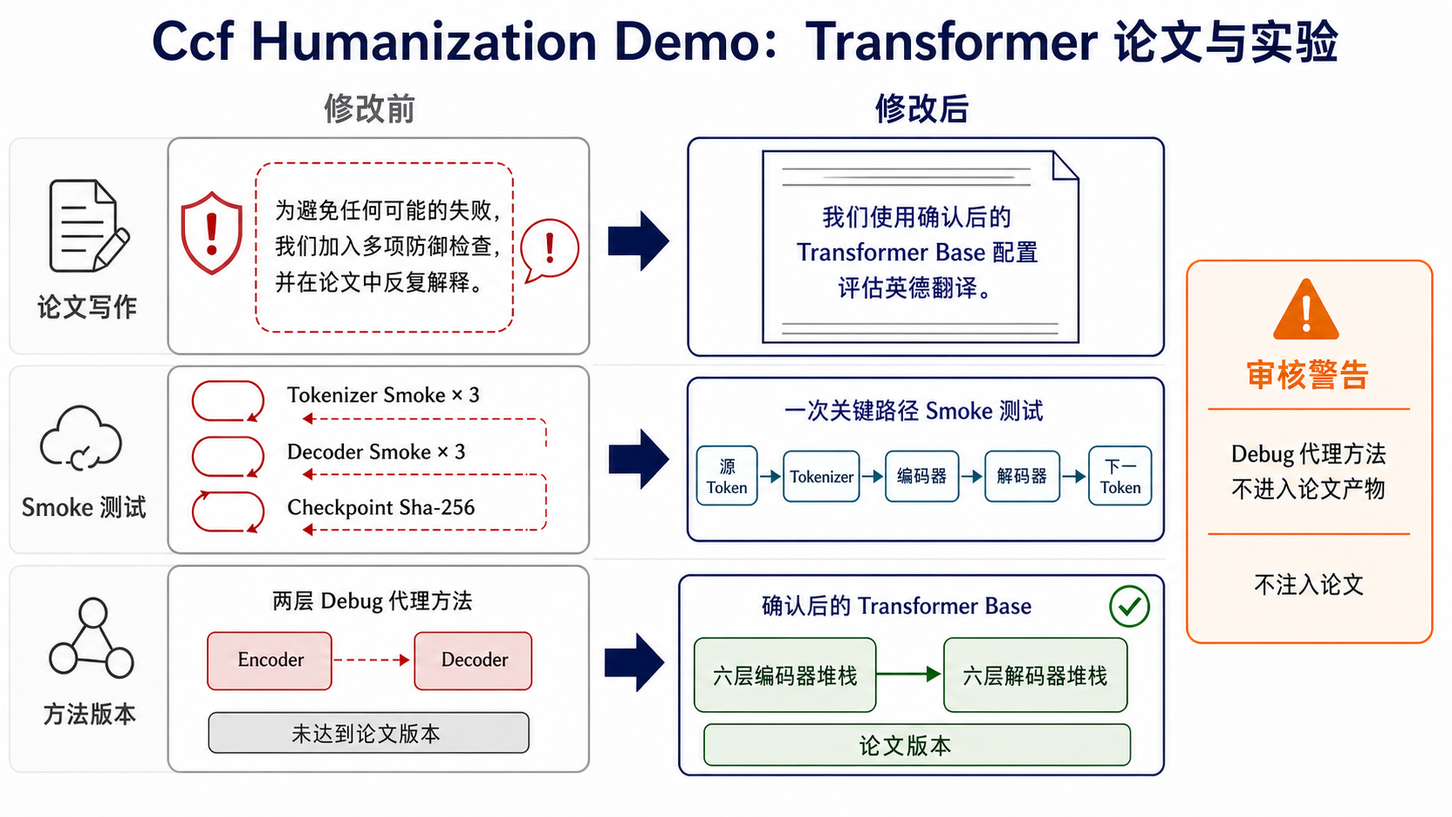
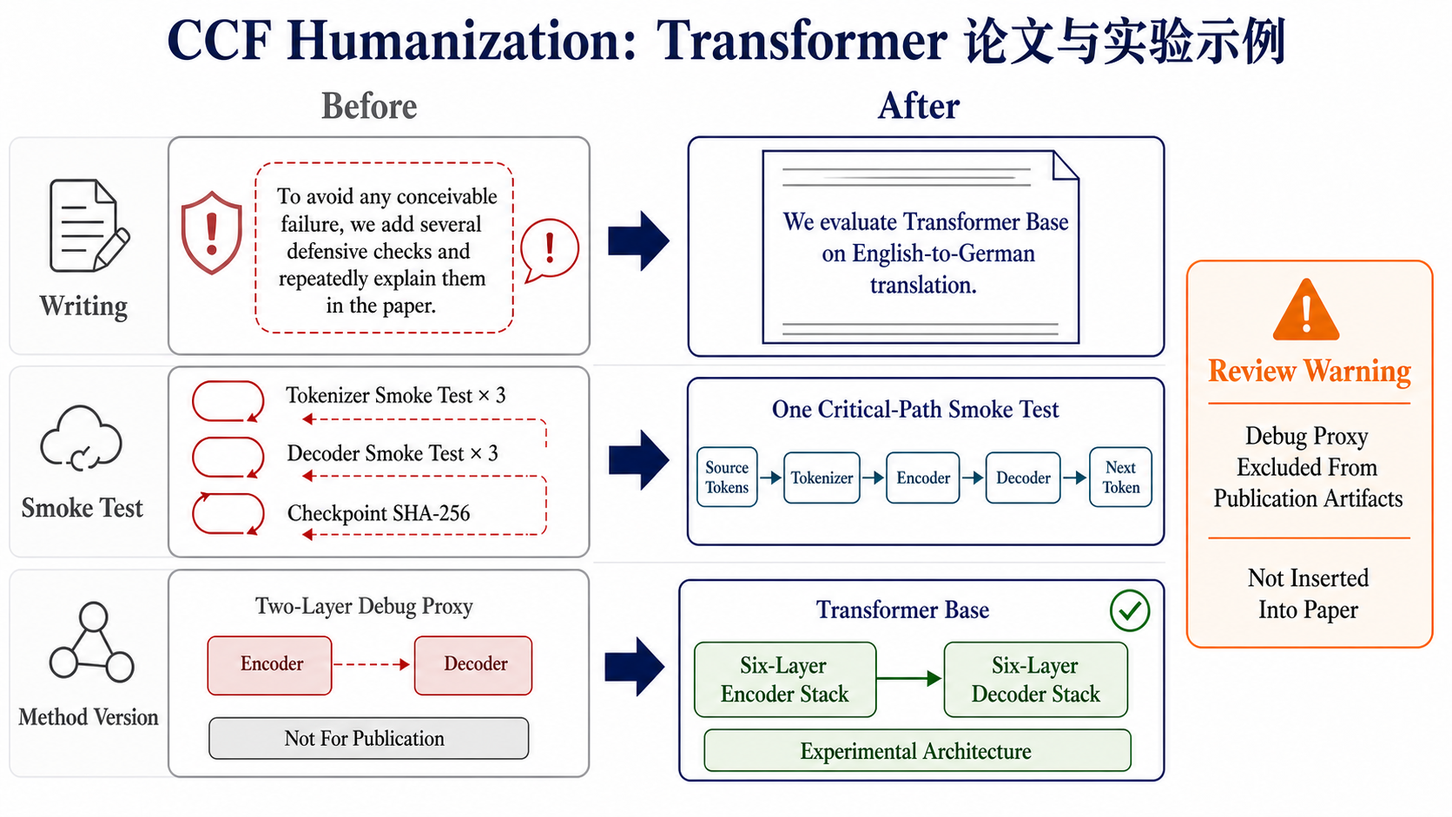
fix: refine humanization prose and visual casing

diff --git a/ccf-common/scripts/check_v04.py b/ccf-common/scripts/check_v04.py
@@ -230,7 +230,7 @@ def check_visual_generation_contract(errors: list[str]) -> None:
         "editable-reconstruction",
         "obtain the required GPT Image 2 confirmation before the external call",
         "ask the mandatory editable-deliverable question",
-        "Do not render English words in all caps",
+        "Acronyms such as `CCF`, `AI`, `GPT`, `QA`, `SVG`, `PDF`, `PNG`, and `SHA-256` remain uppercase",
     )
     for term in required_skill_terms:
         if term not in skill_text:
@@ -240,7 +240,7 @@ def check_visual_generation_contract(errors: list[str]) -> None:
         "是否需要我把它重建为可编辑的 SVG，并同时导出矢量 PDF？",
         "Do not begin vector reconstruction until the user agrees.",
         "Do not embed the whole raster in an SVG and call it editable.",
-        "Never use all-caps text",
+        "preserve canonical uppercase acronyms and initialisms",
     )
     for term in required_reference_terms:
         if term not in reference_text:
@@ -263,19 +263,25 @@ def check_humanization_contract(errors: list[str]) -> None:
             "highest-priority preflight",
             "warning-only",
             "Do not edit a source file merely to encode a warning.",
-            "confirmed full version",
+            "verified identity and full configuration in the internal gate",
+            "Keep method confirmation and version-gate status internal.",
         ),
         "policy": (
             "## SHA-256 And Checksum Rule",
             "do not conceal it",
             "Make no source edit",
+            "## Method Status Versus Academic Description",
         ),
         "experiment": (
             "Only `confirmed` methods may enter publication artifacts.",
             "Smoke tests are engineering checks, not paper evidence.",
             "do not silently substitute a simplified version",
+            "The `confirmed` label is internal metadata.",
         ),
-        "writer": ("Run `ccf-humanization` as the first manuscript-facing preflight",),
+        "writer": (
+            "Run `ccf-humanization` as the first manuscript-facing preflight",
+            "do not write that it is confirmed, approved, or publication-ready",
+        ),
         "designer": ("Run `ccf-humanization` as the first publication-facing experiment preflight",),
     }
     for key, terms in checks.items():

diff --git a/ccf-paper-writer/SKILL.md b/ccf-paper-writer/SKILL.md
@@ -18,7 +18,7 @@ metadata:
 
 This is the manuscript text owner. It also owns local compression and presentation adaptation because both change paper wording or paper-derived communication. Keep idea scope, method mechanism, experiments, numbers, and conclusions unchanged unless the user explicitly authorizes a research-scope change. Follow `../ccf-common/references/task-modes.md`, especially the output-flexibility rule: user-requested output format comes before this skill's internal checklist shape.
 
-Run `ccf-humanization` as the first manuscript-facing preflight and apply `../ccf-humanization/references/humanization-policy.md`. Write direct academic prose without defensive strategies, reviewer simulation, boilerplate disclaimers, or repeated improbable cases. Put concerns that require judgment in a separate user-review warning; do not inject warning prose or edit files solely to encode a warning. Verify every method named in the paper is a confirmed full version under `../ccf-humanization/references/experiment-discipline.md`; never substitute a simplified, toy, proxy, reduced, approximate, or debug version.
+Run `ccf-humanization` as the first manuscript-facing preflight and apply `../ccf-humanization/references/humanization-policy.md`. Write direct academic prose without defensive strategies, reviewer simulation, boilerplate disclaimers, repeated improbable cases, or internal engineering-status narration. Put concerns that require judgment in a separate user-review warning; do not inject warning prose or edit files solely to encode a warning. Verify internally that every method named in the paper is a confirmed full version under `../ccf-humanization/references/experiment-discipline.md`; never substitute a simplified, toy, proxy, reduced, approximate, or debug version. In the manuscript, state the actual method and scientifically relevant configuration naturally; do not write that it is confirmed, approved, or publication-ready.
 
 Do not invent results, baselines, experiments, reviewer impact, or missing evidence. For citations, never guess bib entries: search for the correct paper and obtain its bib entry before citing `references/citation-workflow.md`. Handle unsupported claims through a narrower accurate claim or a separate user-review warning; do not insert defensive caveats into the manuscript without approval.
 
@@ -42,7 +42,7 @@ Apply `references/prose-quality-guardrails.md` to all manuscript-facing prose. A
 6. Never invent results, baselines, experiments, reviewer impact, or missing evidence. Obtain correct citations through literature search per step5; never guess a bib entry. When evidence is absent, use `TBD`, a cautious placeholder, or a clearly marked "needs evidence" sentence.
 7. Do not block drafting because current venue policy is not freshly verified. Use the local venue guide for draft shape, add a freshness note when relevant, and route final compliance to `ccf-submission-checker`.
 8. For full-paper requests, produce a full manuscript-level artifact: Abstract, Introduction, Background/Related Work or Preliminaries, Method, Experiments, Analysis/Ablation, Conclusion, References, and venue-required sections or appendix/checklist placeholders. Add limitations, ethics, or reproducibility prose only when required by the venue or scientifically material; route judgment-sensitive wording through `ccf-humanization` rather than padding the paper with generic caution. Aim for the target venue's draft page budget, usually 85-100% of the main-body limit for submission-style drafts. Do not answer a full-paper request with only an abstract, outline, or short demo snippet.
-9. If the manuscript is materially under target, expand before calling it complete. Expand with mechanism detail, related-work structure, confirmed-method specification, experiment setup, and analysis scaffolds; do not pad with generic caveats, hypothetical failure cases, or invented evidence. If it is over target, use local compression mode and `references/compression-rules.md`.
+9. If the manuscript is materially under target, expand before calling it complete. Expand with mechanism detail, related-work structure, scientifically relevant method specification drawn from the internally confirmed configuration, experiment setup, and analysis scaffolds; do not pad with generic caveats, hypothetical failure cases, process-status language, or invented evidence. If it is over target, use local compression mode and `references/compression-rules.md`.
 10. Keep outputs information-dense. Avoid boilerplate disclaimers and empty headings; each visible section should contain concrete paper content, evidence status, or actionable revision information.
 
 ## Modes
@@ -60,7 +60,7 @@ Apply `references/prose-quality-guardrails.md` to all manuscript-facing prose. A
 4. Build or update the global story with `references/storyline-blueprint.md`. For storyline generation, scientific storytelling, narrative design, paper/story structure, research insight framing, claim generation, abstract planning, or introduction planning, use its multi-expert storyline pipeline and expression logic. For ordinary drafting, use its compact arc: scientific origin -> knowledge gap -> scientific tension -> fundamental question -> core insight -> method mechanism -> evidence ladder -> bounded claim. Keep this internal unless the user asked for a plan.
 5. **Prepare citations** (mandatory for full manuscripts and section drafts): load `references/citation-workflow.md`. Identify citation slots by section, search for literature for each slot, obtain correct bib entries, save them to the project `.bib` file, and insert cites naturally per the workflow. Do not draft a section without first identifying what it needs to cite. If the closest-competitor literature is unknown, hand off to `ccf-literature-searcher` before continuing.
 6. For full-paper, abstract, introduction, method, experiment, conclusion, or exemplar-pattern tasks, load `references/prose-quality-guardrails.md` and `references/research-writing-patterns.md`, then draft or revise section by section using `references/section-modules.md` and `references/writing-checklists.md`. For full manuscripts, compare the draft against the length budget and expand or compress as needed.
-7. **Compile and check** (mandatory for full manuscripts when a LaTeX engine is available): compile the draft, measure the actual page count, and compare against the venue budget from step3. If under target by >15%, expand with mechanism detail, confirmed-method specification, experiment setup, and substantive analysis---not generic limitations, defensive prose, or invented results. If over target by >10%, compress with `references/compression-rules.md`. Recompile after any substantial change and repeat until the page count is within tolerance. Record the final status: `underfilled / target-fit / draft-over / final-over / not compiled`.
+7. **Compile and check** (mandatory for full manuscripts when a LaTeX engine is available): compile the draft, measure the actual page count, and compare against the venue budget from step3. If under target by >15%, expand with mechanism detail, scientifically relevant method specification, experiment setup, and substantive analysis---not generic limitations, defensive prose, internal confirmation language, or invented results. If over target by >10%, compress with `references/compression-rules.md`. Recompile after any substantial change and repeat until the page count is within tolerance. Record the final status: `underfilled / target-fit / draft-over / final-over / not compiled`.
 8. For compression, load `references/compression-rules.md`; return compressed text in the same format and include a cut log only when requested or when content was materially removed.
 9. For presentation adaptation, derive slides/poster/talk/Q&A only from the manuscript and supplied evidence, in the user's requested slide/poster/script format.
 10. If current literature, baselines, or experiments are missing, ask a targeted question or hand off to `ccf-literature-monitor` for recent-paper/competitor watch, `ccf-literature-searcher` for deep retrieval, or `ccf-experiment-designer` for experiment design. For publication-grade figure/table layout, visual contracts, palette choices, caption placement, or manuscript visual integration, hand off to `ccf-visual-composer`. Do not fill gaps by invention.

diff --git a/README.en.md b/README.en.md
@@ -29,19 +29,19 @@ A strong paper is rarely defined by the final PDF alone. What matters is the res
 
 CCFA Skills starts from that observation. It treats a CCF-A paper project as a research storyline that can be maintained, audited, and advanced over time, rather than as a one-shot text generation task. An idea should be shaped before it is defended. Experiments should serve explicit claims rather than merely fill tables. Writing should preserve evidence boundaries. A rebuttal should not be an improvised answer at the end of the process, but a traceable bridge to revision and resubmission.
 
-The central insight is that paper quality comes from the quality of continuous decisions. The current family has 17 runtime roles and puts `ccf-humanization` first for manuscript and publication-facing experiment artifacts: direct academic prose, separate user-review warnings, minimal effective smoke tests, no generic SHA-256 provenance ritual, and only confirmed full method versions in the paper.
+The central insight is that paper quality comes from the quality of continuous decisions. The current family has 17 runtime roles and puts `ccf-humanization` first for manuscript and publication-facing experiment artifacts: fluent, natural, and rigorous academic prose; separate user-review warnings; minimal effective smoke tests; and no generic SHA-256 provenance ritual. Method completeness is checked internally, while the paper describes the actual method directly instead of exposing engineering-status language such as “confirmed” or “approved.”
 
 ## v0.8 Visual Demos
 
-v0.8 preserves the existing 17-skill architecture and paper-project lifecycle. It strengthens two cross-cutting capabilities: `ccf-humanization` as the first preflight, and `ccf-visual-composer` for content-grounded scientific architecture prompts, confirmed generation, structure QA, and editable SVG/PDF reconstruction. The figures use Simplified Chinese explanations while retaining canonical skill, model, and format names in English. Visible English labels use initial capitals rather than all-caps styling.
+v0.8 preserves the existing 17-skill architecture and paper-project lifecycle. It strengthens two cross-cutting capabilities: `ccf-humanization` as the first preflight, and `ccf-visual-composer` for content-grounded scientific architecture prompts, confirmed generation, structure QA, and editable SVG/PDF reconstruction. In the three demos, only the titles are in Simplified Chinese; internal modules, labels, and sentences remain in English. Ordinary English follows natural title or sentence case, while acronyms and initialisms such as CCF, GPT, QA, SVG, PDF, AI, PNG, and SHA-256 remain uppercase.
 
 ![CCFA v0.8 dual-upgrade concept map](assets/v0.8/ccfa-two-upgrades-overview.zh-CN.png)
 
-The concrete Transformer examples show how `Visual Composer` replaces a generic black box with an inspectable encoder-decoder topology, while `Ccf Humanization` removes defensive prose and duplicated smoke checks, admits only the confirmed publication method, and keeps review warnings outside the paper.
+The concrete Transformer examples show how `Visual Composer` replaces a generic black box with an inspectable encoder-decoder topology, while `CCF Humanization` removes defensive prose and duplicated smoke checks, checks method completeness internally, describes the actual method naturally, and keeps review warnings outside the paper.
 
 ![Visual Composer Transformer Chinese demo](assets/v0.8/visual-composer-transformer-demo.zh-CN.png)
 
-![Ccf Humanization Transformer Chinese demo](assets/v0.8/ccf-humanization-transformer-demo.zh-CN.png)
+![CCF Humanization Transformer Chinese-title demo](assets/v0.8/ccf-humanization-transformer-demo.zh-CN.png)
 
 ![CCFA skill family logic](assets/ccfa-skills-architecture.svg)
 
@@ -75,7 +75,7 @@ humanization preflight
 
 | Stage | Skill | Starts when | Main output | Do not use for |
 | --- | --- | --- | --- | --- |
-| Priority preflight | `ccf-humanization` | Remove defensive writing, isolate warnings, deduplicate smoke tests, disable generic SHA-256 requirements, or block simplified methods from publication artifacts. | Humanized artifact, confirmed-method status, separate warning ledger. | Concealing material evidence, writing the paper, designing experiments, or overriding mandatory disclosures. |
+| Priority preflight | `ccf-humanization` | Remove defensive writing, isolate warnings, deduplicate smoke tests, disable generic SHA-256 requirements, or block simplified methods from publication artifacts. | Humanized artifact, internal method-version gate, separate warning ledger. | Concealing material evidence, writing the paper, designing experiments, or overriding mandatory disclosures. |
 | Setup | `ccf-project-scaffolder` | Create a paper project, copy templates, initialize `ccfa.yaml`. | Project tree, template files, initial state. | Research content generation. |
 | Planning | `ccf-pipeline-orchestrator` | Plan stages, gates, artifact status, next owner. | Workflow plan, gates, handoff. | Writing, review, search, experiments, rebuttal. |
 | Idea shaping | `ccf-idea-optimizer` | Explore, rescue, or concretize a rough idea or vague direction. | Problem-gap-insight-method-evidence brief, rescue routes, minimum testable question. | Ranking multiple ideas. |
@@ -99,7 +99,7 @@ humanization preflight
 
 | User intent | Use | Do not use |
 | --- | --- | --- |
-| Remove defensive writing, keep warnings outside files, trim repeated smoke tests, or enforce confirmed full methods | `ccf-humanization` | `ccf-paper-reviewer` |
+| Remove defensive writing, keep warnings outside files, trim repeated smoke tests, or prevent simplified methods from entering publication artifacts | `ccf-humanization` | `ccf-paper-reviewer` |
 | Make a rough idea concrete or find a rescue route | `ccf-idea-optimizer` | `ccf-idea-reviewer` |
 | Explicitly score, rank, or select ideas | `ccf-idea-reviewer` | `ccf-idea-optimizer` |
 | Monitor new papers, competitors, or recent similar ideas | `ccf-literature-monitor` | `ccf-literature-searcher` |

diff --git a/ccf-humanization/SKILL.md b/ccf-humanization/SKILL.md
@@ -22,21 +22,24 @@ Apply this skill before manuscript-facing work by `ccf-paper-writer` and before 
 
 Produce direct academic content, not prose that argues with hypothetical reviewers. Remove defensive framing, generic disclaimers, repeated low-probability cases, ritual safeguards, and process narration that do not change the scientific claim or evidence. Keep a concern outside the artifact as a user-review warning when it needs judgment. Do not edit a source file merely to encode a warning.
 
+Humanization must never dilute academic rigor. Preserve technical precision, evidence boundaries, causal and comparative logic, reproducibility-relevant details, calibrated claims, terminology, equations, citations, and venue-required disclosures. Improve the prose by making the scientific argument clearer and more natural, not by making it vaguer, more promotional, or less complete.
+
+Keep method confirmation and version-gate status internal. A method must pass the confirmed-full-method gate before publication use, but manuscript prose must not say that a method, baseline, configuration, or checkpoint is "confirmed," "approved," "publication-ready," or otherwise cleared by an engineering process. State the actual method name, scientifically relevant structure, configuration, data, and protocol directly and naturally. For example, write `We evaluate Transformer Base on English-to-German translation`, not `We use the confirmed Transformer Base configuration`.
+
 Never hide an observed result, known failure, assumption, conflict of interest, ethical issue, reproducibility fact, or venue-required disclosure when omission would make the paper materially misleading. Flag it as a blocking warning and wait for the user's decision; do not silently insert it or help conceal it.
 
 ## Modes
 
 - `manuscript-humanization`: remove defensive or AI-like prose while preserving claims, evidence, terminology, citations, equations, and user format.
-- `experiment-humanization`: deduplicate smoke tests, remove hypothetical test sprawl, and enforce confirmed publication method versions.
+- `experiment-humanization`: deduplicate smoke tests, remove hypothetical test sprawl, and prevent simplified development variants from entering publication artifacts.
 - `warning-only`: return a separate review warning without modifying manuscript, experiment, code, table, or configuration files.
 
 ## Workflow
 
 1. Identify the target artifact, owning CCFA skill, requested change, and whether edits are already authorized.
 2. Classify each candidate issue as `remove`, `keep`, or `warn-only` using `references/humanization-policy.md`.
-3. For manuscript prose, remove defensive positioning, boilerplate caveats, reviewer simulation, and improbable case lists. Keep only content that advances problem, method, evidence, interpretation, or a required disclosure.
-4. For experiment work, load `references/experiment-discipline.md`. Require each publication method to have a confirmed identity and full configuration; do not place simplified, toy, approximate, proxy, reduced, or debug variants in manuscript text, final tables, or claimed comparisons.
-   Each publication method must be a confirmed full version before it enters the paper.
+3. For manuscript prose, remove defensive positioning, boilerplate caveats, reviewer simulation, improbable case lists, and internal process/status language. Keep only content that advances problem, method, evidence, interpretation, or a required disclosure. Rewrite version-gate phrases as natural academic descriptions of the actual method and relevant configuration.
+4. For experiment work, load `references/experiment-discipline.md`. Require each publication method to have a verified identity and full configuration in the internal gate; do not place simplified, toy, approximate, proxy, reduced, or debug variants in manuscript text, final tables, or claimed comparisons, and do not expose the gate status in manuscript wording.
 5. Minimize smoke testing to changed, executable, decision-relevant paths. Do not repeat equivalent smoke tests or treat smoke success as publication evidence.
 6. Do not introduce SHA-256/checksum boilerplate for generic provenance, version confirmation, deduplication, or paper-writing workflow. Preserve it only when cryptographic hashing is the research subject, a real implementation dependency, or an external system requirement; surface that exception as a warning when it conflicts with the user's preference.
 7. Put any unresolved concern in the warning format below. Do not patch files, add comments, inject disclaimers, or alter method configuration for a warning-only issue until the user explicitly approves a concrete change.

diff --git a/ccf-visual-composer/SKILL.md b/ccf-visual-composer/SKILL.md
@@ -22,7 +22,7 @@ Treat external image generation and editable-vector reconstruction as two separa
 
 Make every visual evidence-bearing, readable, and integrated with the manuscript. Start from a visual contract, not a template. Never invent data, numbers, statistics, baselines, sample sizes, architecture modules, data flows, training signals, labels, images, captions that imply unsupported results, or official venue rules.
 
-Apply title case to every English word displayed inside a figure: capitalize only the first letter and keep the remaining letters lowercase. For example, use `Visual Composer`, `Gpt Image 2`, and `Editable Svg/Pdf`, never `VISUAL COMPOSER`, `GPT IMAGE 2`, or `EDITABLE SVG/PDF`. Do not render English words in all caps in titles, module labels, legends, axes, annotations, badges, tables, or generated-image prompts. Preserve canonical spelling in manuscript prose, captions, filenames, and source metadata when scientific identifiers require it; the title-case rule governs visible text inside the image unless the user explicitly overrides it.
+Use natural title case or sentence case for ordinary English displayed inside a figure, while preserving canonical uppercase for acronyms, initialisms, and standardized technical abbreviations. For example, use `Visual Composer`, `GPT Image 2`, `Structure QA`, and `Editable SVG/PDF`, never `VISUAL COMPOSER`, `Gpt Image 2`, `Structure Qa`, or `Editable Svg/Pdf`. Acronyms such as `CCF`, `AI`, `GPT`, `QA`, `SVG`, `PDF`, `PNG`, and `SHA-256` remain uppercase. Do not use all caps for complete ordinary-language titles, module names, legends, axes, annotations, badges, or table headers merely for emphasis.
 
 ## Modes
 
@@ -42,7 +42,7 @@ Apply title case to every English word displayed inside a figure: capitalize onl
 3. If claims, evidence, source data, or result values are missing, mark the gap and hand off to `ccf-experiment-designer`; do not fill the gap by invention. If architecture topology, labels, or method content are missing, inspect the user-authorized project sources or ask a targeted question instead of inventing modules.
 4. Load `references/visual-contract.md` and write the visual contract before changing layout or style.
 5. Load `references/palette-and-accessibility.md` before choosing colors; prefer accessible scientific palettes and semantic consistency over decorative color.
-6. Normalize the visible English text inventory to title case before plotting, prompting, or reconstruction. Reject all-caps image text during render QA and correct it before delivery.
+6. Normalize visible English to natural title or sentence case before plotting, prompting, or reconstruction, while preserving canonical uppercase acronyms and initialisms. Reject both all-caps ordinary phrases and incorrectly lowercased acronyms during render QA.
 7. Route ordinary quantitative/result figures to deterministic, reproducible plotting code. Load `references/python-plot-recipes.md` and use `resources/python/ccfa_plot_recipes.py` as a runnable starting point. Prefer analytical plot families when the evidence calls for them: pie/donut for composition, grouped bars for categorical comparisons, volcano plots for effect-size/significance screening, correlation heatmaps for relationship matrices, and composite dashboards for multi-view analysis. If a better plot grammar is needed, load `references/plot-inspiration-map.md` and invent a new evidence-bound chart without copying external code.
 8. For a method, model, system, pipeline, framework, or architecture diagram, load `references/architecture-diagram-generation.md`. Build a content-grounded diagram specification and generation prompt first. Show the prompt and obtain the required GPT Image 2 confirmation before the external call; if the selected backend cannot be verified as GPT Image 2, state that limitation and do not mislabel the backend.
 9. After generation, inspect the actual image against the diagram specification. Then ask the mandatory editable-deliverable question from `references/architecture-diagram-generation.md`. On agreement, reconstruct semantic groups, shapes, connectors, and live text as SVG; derive PDF from the vector source. Embedding or auto-tracing the raster alone does not satisfy editability.

diff --git a/ccf-visual-composer/references/architecture-diagram-generation.md b/ccf-visual-composer/references/architecture-diagram-generation.md
@@ -67,7 +67,7 @@ STYLE
 Clean scientific vector-illustration aesthetic; flat shapes; precise alignment; generous whitespace; restrained accessible palette; consistent stroke widths; no photorealism; no unnecessary decoration.
 
 TYPOGRAPHY
-Use only these exact short labels after title-case normalization: [label list]. Capitalize only the first letter of every displayed English word and keep the remaining letters lowercase. Never use all-caps text; write `Visual Composer`, `Gpt Image 2`, and `Editable Svg/Pdf`, not `VISUAL COMPOSER`, `GPT IMAGE 2`, or `EDITABLE SVG/PDF`. Keep text horizontal, high-contrast, and large enough at final paper size. Do not invent or paraphrase labels. If exact text cannot be rendered reliably, leave a clean label slot for later vector reconstruction.
+Use only these exact short labels after capitalization normalization: [label list]. Use natural title or sentence case for ordinary English, but preserve canonical uppercase acronyms and initialisms. Write `Visual Composer`, `GPT Image 2`, `Structure QA`, and `Editable SVG/PDF`, not `VISUAL COMPOSER`, `Gpt Image 2`, `Structure Qa`, or `Editable Svg/Pdf`. Keep `CCF`, `AI`, `GPT`, `QA`, `SVG`, `PDF`, `PNG`, `SHA-256`, and comparable standardized abbreviations uppercase. Keep text horizontal, high-contrast, and large enough at final paper size. Do not invent or paraphrase labels. If exact text cannot be rendered reliably, leave a clean label slot for later vector reconstruction.
 
 OUTPUT CONSTRAINTS
 [Aspect ratio/resolution/background.] Preserve margins. Keep arrows unambiguous and prevent crossings where possible.
@@ -78,7 +78,7 @@ No unsupported components, fake metrics, fabricated equations, logos, watermarks
 
 Favor short labels of one to five words. Put long explanations in the caption, not inside the generated figure. When equations or exact typography are essential, reserve clean slots and add them during editable reconstruction.
 
-Before showing or sending the prompt, normalize the complete visible-text inventory to title case. This visible-image rule applies to titles, module names, legends, annotations, badges, axis labels, and table headers. Keep canonical model or acronym spelling outside the image in prose, captions, filenames, and metadata when needed. Do not silently return to all caps for emphasis; use weight, size, color, or spacing instead.
+Before showing or sending the prompt, normalize the complete visible-text inventory to natural title or sentence case. Preserve canonical uppercase acronyms and initialisms inside the image as well as in prose, captions, filenames, and metadata. Do not use all caps for an entire ordinary phrase merely for emphasis; use weight, size, color, or spacing instead.
 
 ## 4. Required GPT Image 2 Confirmation Gate
 
@@ -97,7 +97,7 @@ Inspect the generated image rather than assuming prompt compliance. Compare it w
 - missing, duplicated, invented, or renamed modules;
 - incorrect arrow direction, topology, training/inference boundary, or grouping;
 - unreadable or hallucinated labels/equations;
-- any all-caps English word or label that violates the required title-case display rule;
+- any all-caps ordinary English phrase or incorrectly lowercased acronym that violates the capitalization rule;
 - inconsistent visual encoding or novelty emphasis;
 - paper-size readability, contrast, whitespace, and crop safety.
 
@@ -133,7 +133,7 @@ Use a deterministic vector-first route instead of image generation when the user
 - Training-only, inference-only, optional, and repeated components are distinguishable.
 - Novelty emphasis matches the manuscript rather than decorative salience.
 - Labels match the manuscript terminology exactly.
-- Every displayed English word uses title case with only its first letter capitalized; no all-caps styling remains.
+- Ordinary English uses natural title or sentence case, while canonical acronyms and initialisms remain uppercase.
 - SVG objects are individually selectable and text remains editable.
 - The PDF is exported from vector source, not from a flattened screenshot.
 - Raster draft and reconstructed vector tell the same scientific story.

diff --git a/ccf-humanization/references/humanization-policy.md b/ccf-humanization/references/humanization-policy.md
@@ -4,6 +4,8 @@
 
 Write the strongest accurate academic version of the work. State the research problem, mechanism, evidence, and bounded conclusion directly. Do not write as though answering an imagined hostile reviewer.
 
+Natural prose is not relaxed scholarship. Preserve method specificity, evidence-to-claim alignment, uncertainty where scientifically relevant, reproducibility details, equations, citations, terminology, and mandatory disclosures. Never trade rigor for conversational tone, rhetorical smoothness, brevity, or a more favorable narrative.
+
 Remove or rewrite:
 
 - boilerplate caveats that do not affect interpretation;
@@ -13,6 +15,7 @@ Remove or rewrite:
 - meta-commentary about what reviewers may think, accept, reject, question, or misunderstand;
 - repetitive statements that the method is not intended for implausible scenarios;
 - warning prose, internal risk notes, or reviewer simulations inside manuscript paragraphs.
+- engineering-status phrases such as "the confirmed version," "the approved configuration," "publication-ready method," or narration that a method passed an internal gate;
 
 Keep:
 
@@ -21,6 +24,26 @@ Keep:
 - fair protocol constraints and known threats that affect comparison validity;
 - venue-mandated limitations, ethics, impact, disclosure, or reproducibility content;
 - concise scope statements when a broader reading would be materially false.
+
+## Method Status Versus Academic Description
+
+Confirmation is an internal evidence and experiment gate, not a manuscript claim. Verify the method identity, revision, configuration, dataset split, and checkpoint before writing, then describe only the scientifically relevant method in fluent academic prose.
+
+Prefer:
+
+```text
+We evaluate Transformer Base on English-to-German translation.
+The encoder and decoder each contain six layers.
+```
+
+Avoid:
+
+```text
+We use the confirmed Transformer Base configuration.
+The publication-ready version contains six encoder and decoder layers.
+```
+
+Mention a release, revision, checkpoint, or configuration identifier only when it improves reproducibility or distinguishes scientifically different variants. State that identifier directly; do not frame it as approval, confirmation, readiness, or process completion.
 
 ## Unfavorable Information
 
@@ -64,3 +87,5 @@ This rule does not rewrite scientific reality. Preserve SHA-256 or another hash 
 - No warning was injected into a source file without approval.
 - No material fact was hidden or softened into a misleading claim.
 - Internal process notes stay outside the manuscript.
+- Internal confirmation and publication-readiness status is absent from manuscript prose; methods are described by their scientific identity and relevant configuration.
+- The revision remains technically precise, professionally academic, and no less rigorous than the source.

diff --git a/ccf-experiment-designer/SKILL.md b/ccf-experiment-designer/SKILL.md
@@ -16,11 +16,11 @@ metadata:
 
 **CCFA Handoff Mode: PARTIAL (Recommended).** Follow `metadata.ccf_skill_controls.handoff_question_mode`, `../ccf-common/references/handoff-modes.md`, and `../ccf-common/references/task-modes.md`.
 
-Run `ccf-humanization` as the first publication-facing experiment preflight. Load `../ccf-humanization/references/experiment-discipline.md`, minimize smoke tests to unique changed critical paths, and allow only confirmed full method versions in manuscript text, final tables, captions, and claimed comparisons. Put version conflicts or necessary exceptions in a separate user-review warning; do not modify experiment or manuscript files merely to encode the warning.
+Run `ccf-humanization` as the first publication-facing experiment preflight. Load `../ccf-humanization/references/experiment-discipline.md`, minimize smoke tests to unique changed critical paths, and allow only internally confirmed full method versions in manuscript text, final tables, captions, and claimed comparisons. In publication-facing wording, name the method and scientifically relevant configuration naturally without exposing confirmation, approval, or readiness status. Put version conflicts or necessary exceptions in a separate user-review warning; do not modify experiment or manuscript files merely to encode the warning.
 
 ## Core Rule
 
-Design the smallest sufficient experiment package that tests the paper's central claims with confirmed full methods. Build result tables and evidence-bound figure specs only from supplied real values or explicit placeholders. Never fabricate numbers, improvements, significance, benchmark ranks, or user-study outcomes. Do not expand protocols with repetitive smoke tests or implausible defensive cases. Publication-grade layout, palette, caption placement, and render QA belong to `ccf-visual-composer`. Follow the user's requested output shape: experiment plan, table, LaTeX table, figure spec, ablation list, or execution queue.
+Design the smallest sufficient experiment package that tests the paper's central claims with complete method configurations verified by the internal gate. Build result tables and evidence-bound figure specs only from supplied real values or explicit placeholders. Never fabricate numbers, improvements, significance, benchmark ranks, or user-study outcomes. Do not expand protocols with repetitive smoke tests or implausible defensive cases. Publication-grade layout, palette, caption placement, and render QA belong to `ccf-visual-composer`. Follow the user's requested output shape: experiment plan, table, LaTeX table, figure spec, ablation list, or execution queue.
 
 ## Modes
 

diff --git a/CHANGELOG.md b/CHANGELOG.md
@@ -8,8 +8,9 @@
 - Extended `ccf-visual-composer` with scientific method/architecture diagram routing, content-derived research-figure prompts, an explicit pre-call GPT Image 2 confirmation gate, generated-draft inspection, and a mandatory post-generation offer to reconstruct editable SVG/vector PDF.
 - Defined semantic vector reconstruction requirements so editable deliverables use live text, selectable groups, and typed connectors instead of relabeling an embedded or auto-traced raster as editable.
 - Updated routing, trigger registry, artifact ownership, agent guidance, catalog, architecture docs, manifests, and validation for the new visual workflow.
-- Added a figure-wide title-case rule: visible English words use an initial capital instead of all-caps styling across generated architecture diagrams, reproducible plots, tables, and render QA.
-- Added three Simplified Chinese v0.8 visual assets: the dual-upgrade concept map, a concrete Transformer `Visual Composer` before/after demo, and a concrete `Ccf Humanization` manuscript/experiment demo. Canonical skill and model terms remain in English inside the localized figures.
+- Added a figure-wide capitalization rule: ordinary English uses natural title or sentence case, while canonical acronyms and initialisms such as `CCF`, `GPT`, `QA`, `SVG/PDF`, `AI`, `PNG`, and `SHA-256` remain uppercase.
+- Added three v0.8 visual assets with Chinese titles and English internal labels: the dual-upgrade concept map, a concrete Transformer `Visual Composer` before/after demo, and a concrete `CCF Humanization` manuscript/experiment demo.
+- Kept method confirmation as an internal experiment gate while removing confirmation, approval, and publication-readiness status language from manuscript prose; papers state the actual method and scientifically relevant configuration directly.
 - Updated all README variants to present the v0.8 visuals without changing the established 17-skill architecture or lifecycle order.
 
 ## v0.7.0 - 2026-07-08
